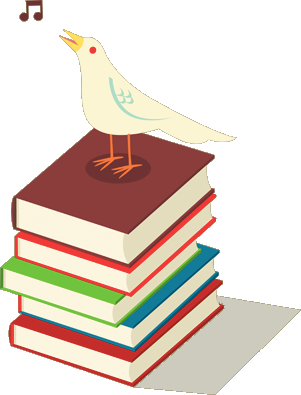
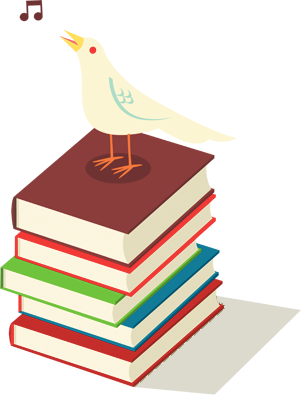
Change font for my name, center bird books

diff --git a/sass/custom/_home.scss b/sass/custom/_home.scss
@@ -2,11 +2,11 @@ body#home {
   header { display: none; }
   h1#my-name {
     text-align: center;
-    font-family: 'IM Fell DW Pica', serif;
+    font-family: 'Crimson Text', serif;
     font-weight: normal;
     color: #46402f;
     margin: 0.6em 0;
-    text-shadow: 1px 1px 1px #FAFCDA, -1px -1px 1px #1a1914;
+    text-shadow: 1px 1px 1px #E4DDBD, -1px -1px 1px #1a1914;
   }
   #content > div, #content article { padding-top: 0; }
   #nav {
@@ -160,9 +160,9 @@ body#home {
 
   #bird {
     max-width: 500px;
-    margin: 0 auto;
+    margin: 0 auto 0;
     text-align: center;
-    img { padding: 0 20%; border: none; box-shadow: none; border-radius: none;}
+    img { padding: 0 12% 0 28%; border: none; box-shadow: none; border-radius: none;}
   }
   div#bio {
     margin:0 auto 1em;

diff --git a/source/_includes/custom/head.html b/source/_includes/custom/head.html
@@ -1,4 +1,3 @@
 <!--Fonts from Google"s Web font directory at http://google.com/webfonts -->
-<link href='http://fonts.googleapis.com/css?family=IM+Fell+DW+Pica&text=Jason%20Garber' rel='stylesheet' type='text/css'>
+<link href='http://fonts.googleapis.com/css?family=Crimson+Text&text=Jason%20Garber' rel='stylesheet' type='text/css'>
 <link href='http://fonts.googleapis.com/css?family=PT+Serif:400,700italic,700,400italic|PT+Sans:400italic,400,700,700italic' rel='stylesheet' type='text/css'>
-
